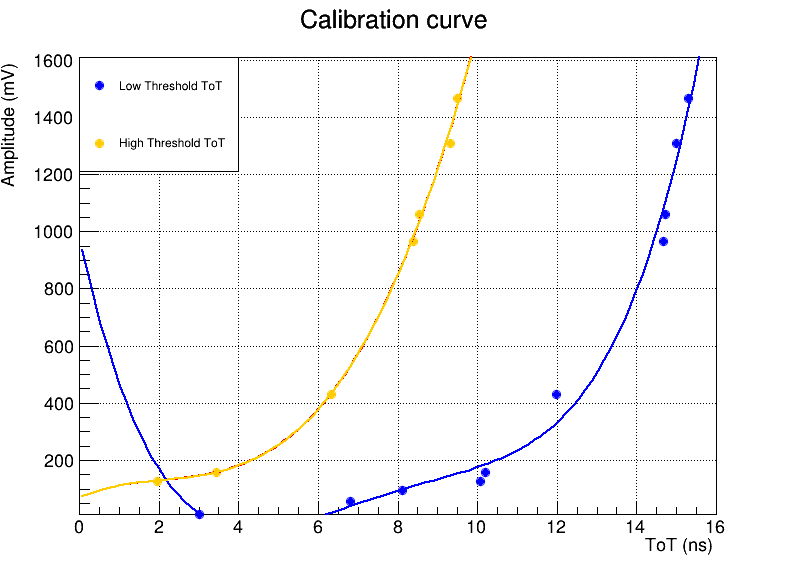
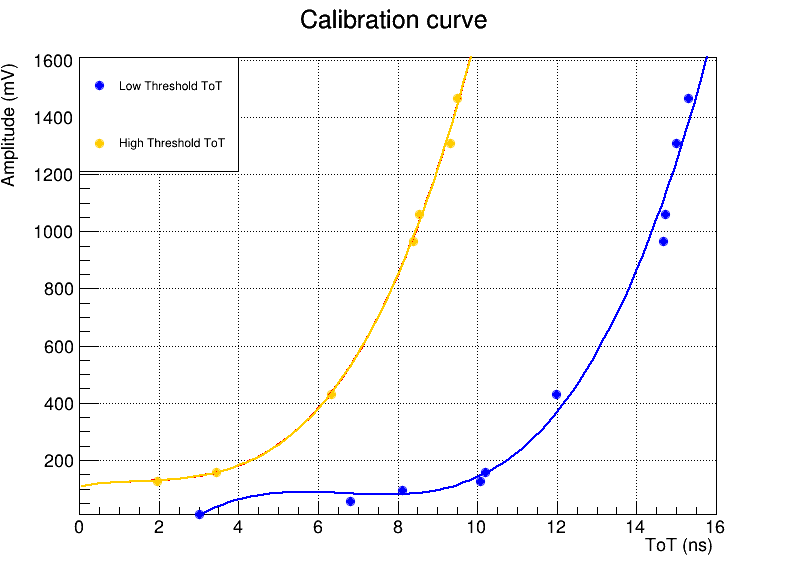
new commit

diff --git a/time_distribution_graph.C b/time_distribution_graph.C
@@ -268,8 +268,8 @@ int main() {
     legend->Draw();
 
     // Esegui il fitting dei dati
-    TF1 *fit_low = new TF1("fit_low", "pol4", 0, 16); // Fitting con un polinomio di terzo grado
-    TF1 *fit_high = new TF1("fit_high", "pol4", 0, 16);
+    TF1 *fit_low = new TF1("fit_low", "pol3", 0, 16); // Fitting con un polinomio di terzo grado
+    TF1 *fit_high = new TF1("fit_high", "pol3", 0, 16);
 
     gr_low->Fit(fit_low);
     gr_high->Fit(fit_high);
